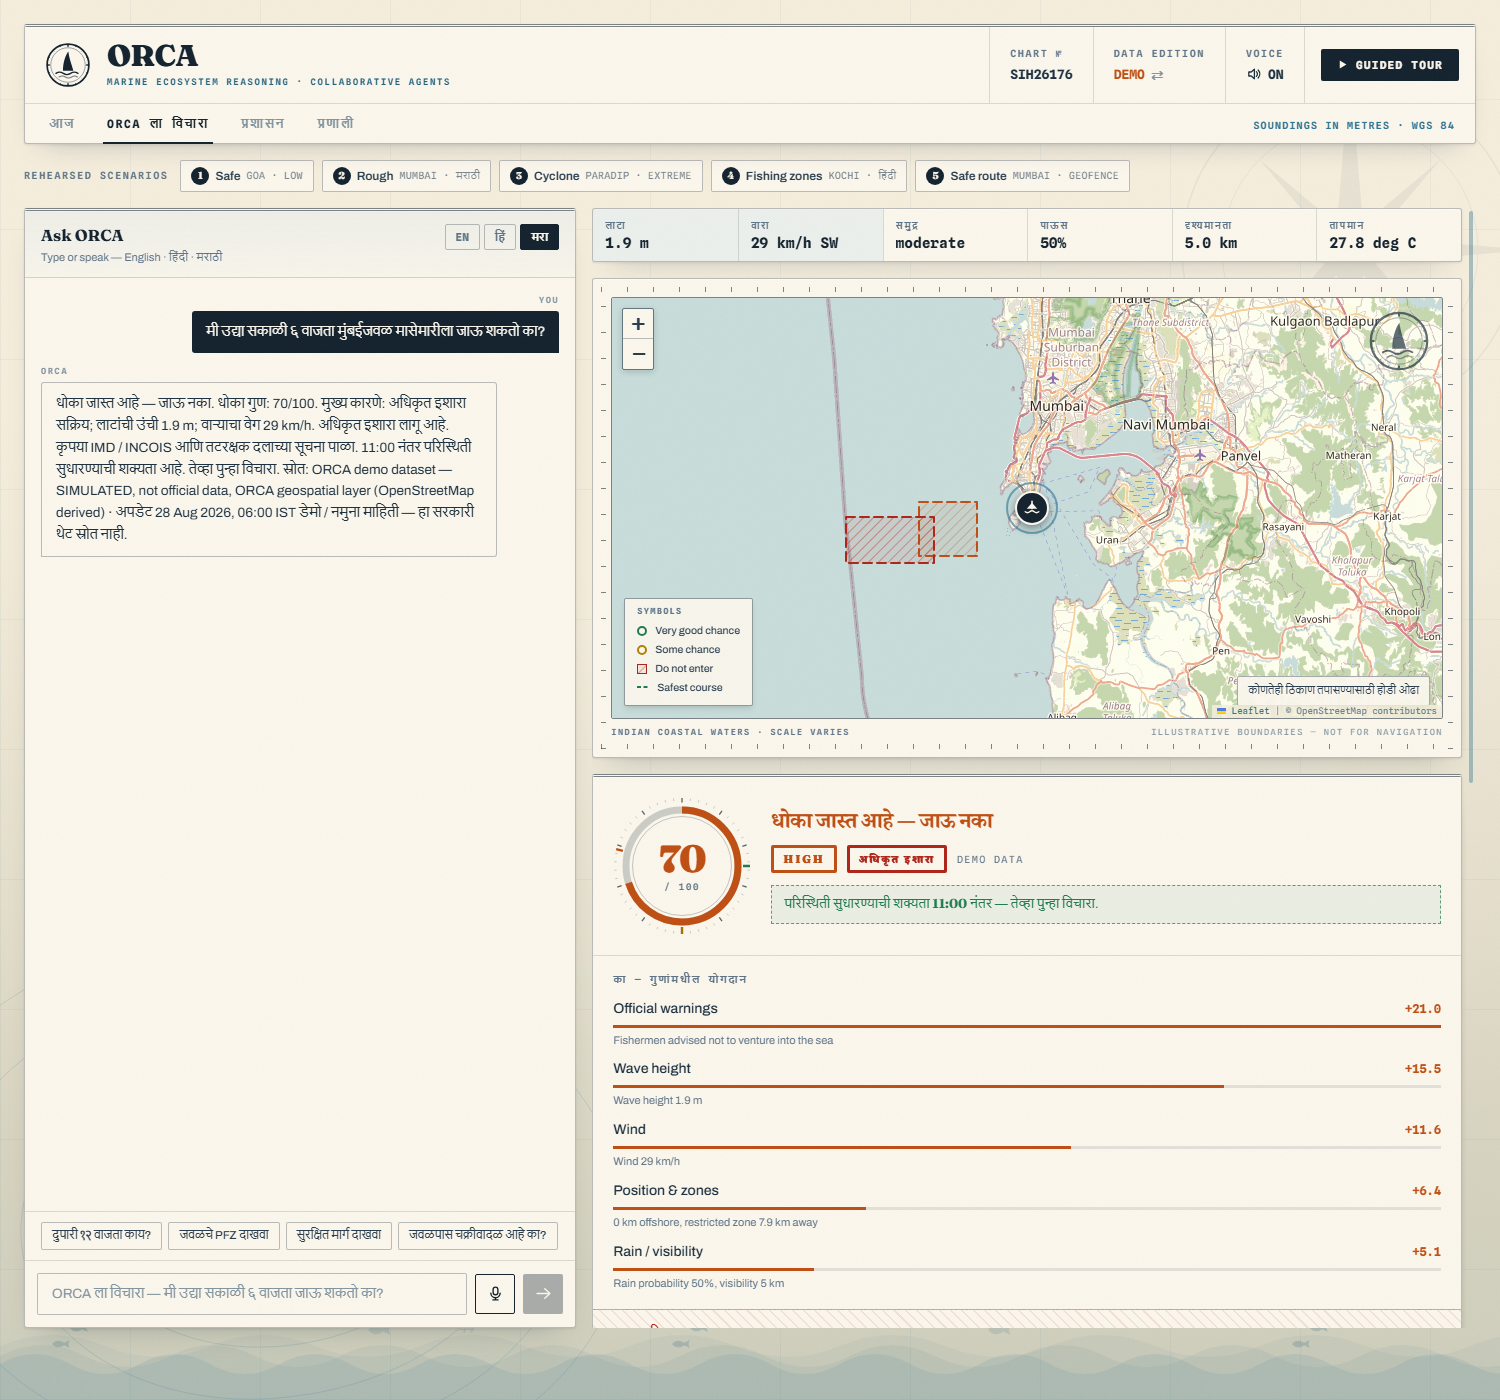
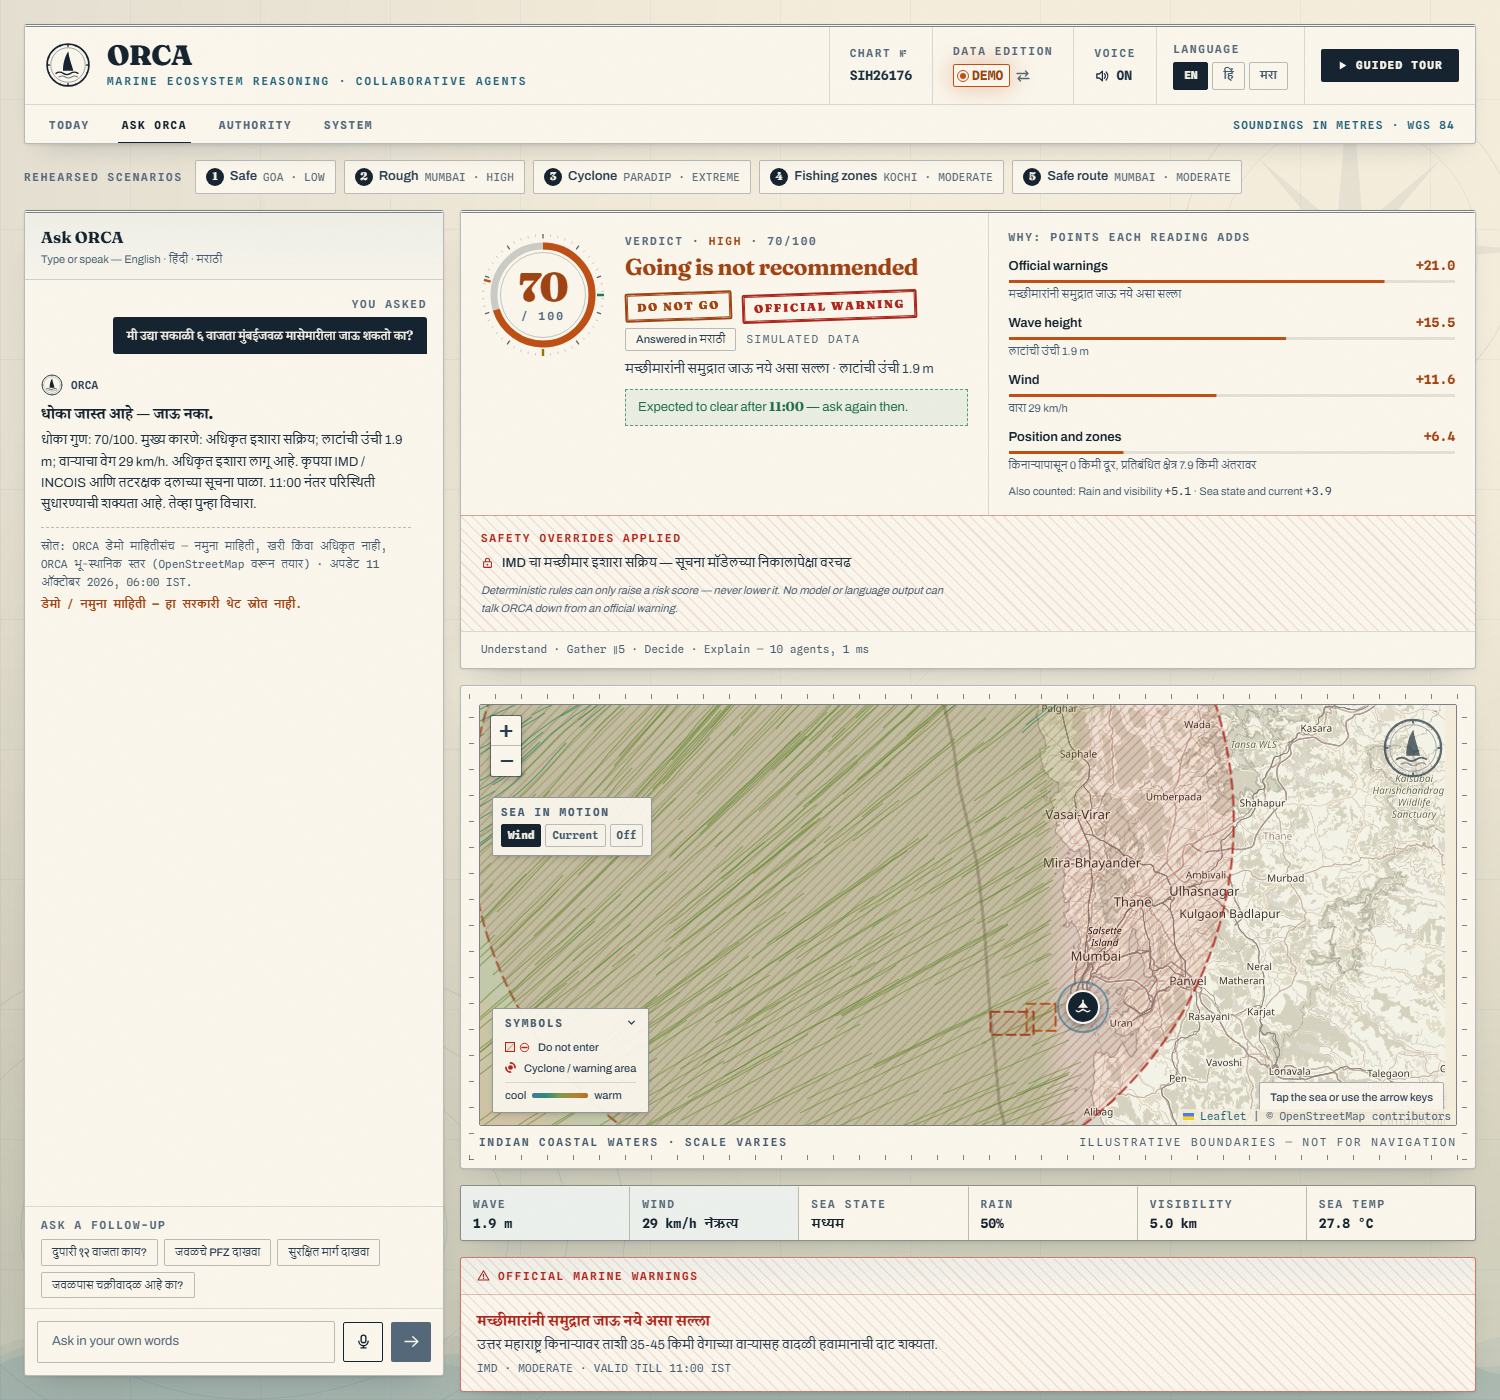
docs: the README's screenshots show ORCA as it is today
The gallery still showed the August build. Every screen is recaptured
from the current one: the landing with the coast ticker and the live
"a fisher asks" hero, Today from Goa (safe to go, ranked grounds,
species, when to leave and be back), Ask in Marathi at 70/100 HIGH,
the Authority board, the engine room, and the phone app in Marathi in
a phone frame (Today, the chart, Ask by voice).

Captured headless with reduced motion forced, so every effect shows
its finished state. The landing caption now describes the new hero.

diff --git a/README.md b/README.md
@@ -57,7 +57,7 @@ Coast Guard instructions — and it says so, on every screen.
 | The front door | Today — the fisher's plan |
 |:---:|:---:|
 | ![Landing page](docs/landing.png) | ![Today view](docs/today.png) |
-| *Live coastline stats, the plotted-course hero, three ways in* | *Ranked grounds with chance-of-fish, likely species, factor analytics, trip plan* |
+| *The whole coast's risk at a glance, a fisher's question answered live by the crew, three ways in* | *Safe to go from Goa: ranked grounds with chance-of-fish, likely species, factor bars, when to leave and be back* |
 
 | Ask ORCA — Marathi in, Marathi out | Authority — the district view |
 |:---:|:---:|
